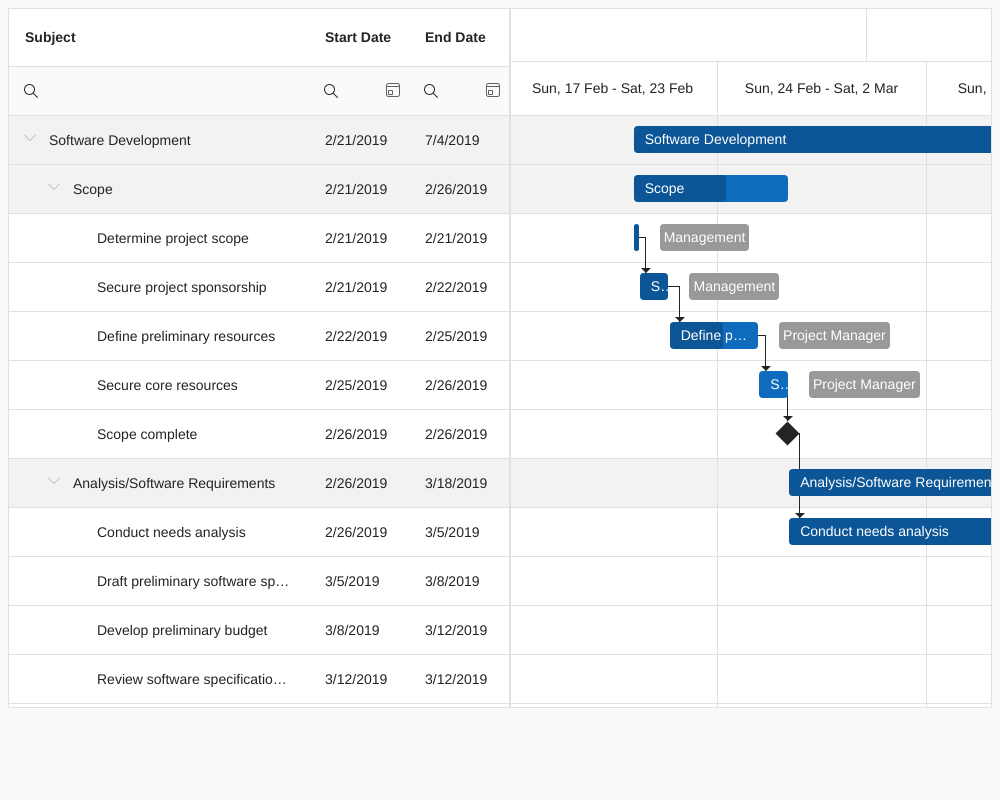
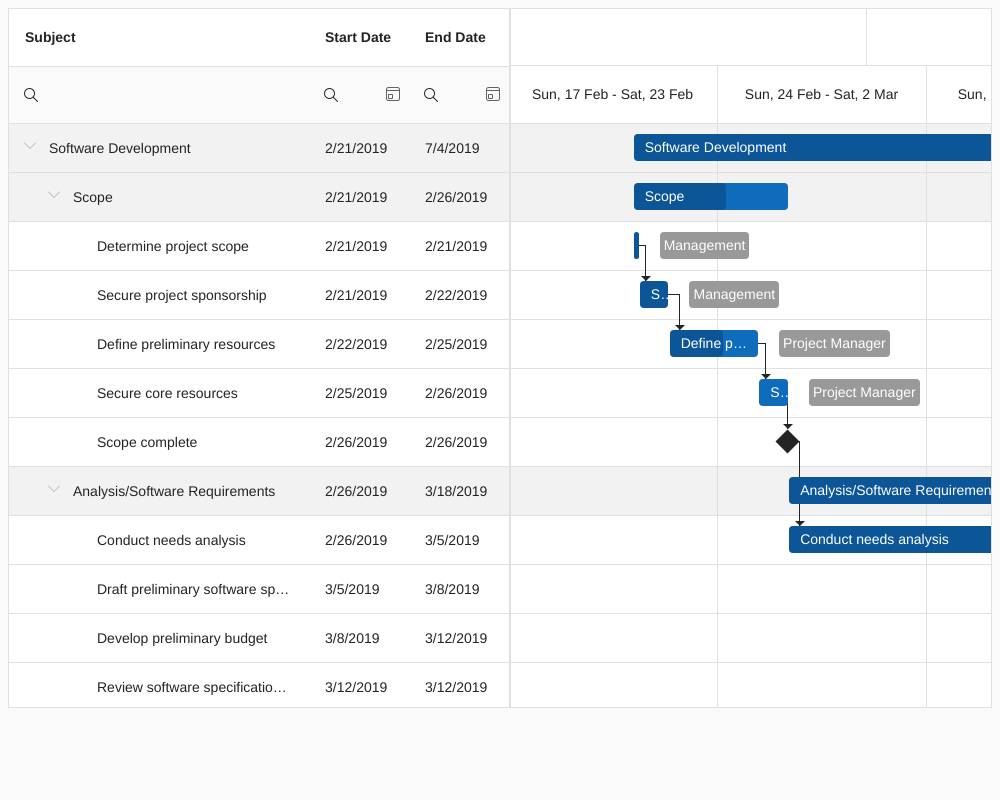
dxGantt: fix header row height (T1247475)

diff --git a/packages/devextreme-scss/scss/widgets/fluent/gantt/_index.scss b/packages/devextreme-scss/scss/widgets/fluent/gantt/_index.scss
@@ -34,7 +34,8 @@ $gantt-successor-background-color: white;
     background-color: $base-bg;
   }
 
-  .dx-header-row {
+  .dx-header-row,
+  .dx-treelist-filter-row {
     height: $gantt-header-item-height;
   }
 

diff --git a/packages/devextreme-scss/scss/widgets/generic/gantt/_index.scss b/packages/devextreme-scss/scss/widgets/generic/gantt/_index.scss
@@ -79,7 +79,8 @@ $gantt-successor-background-color: white;
     background-color: $base-bg;
   }
 
-  .dx-header-row {
+  .dx-header-row,
+  .dx-treelist-filter-row {
     height: $gantt-header-item-height;
   }
 

diff --git a/packages/devextreme-scss/scss/widgets/material/gantt/_index.scss b/packages/devextreme-scss/scss/widgets/material/gantt/_index.scss
@@ -34,7 +34,8 @@ $gantt-successor-background-color: white;
     background-color: $base-bg;
   }
 
-  .dx-header-row {
+  .dx-header-row,
+  .dx-treelist-filter-row {
     height: $gantt-header-item-height;
   }
 
